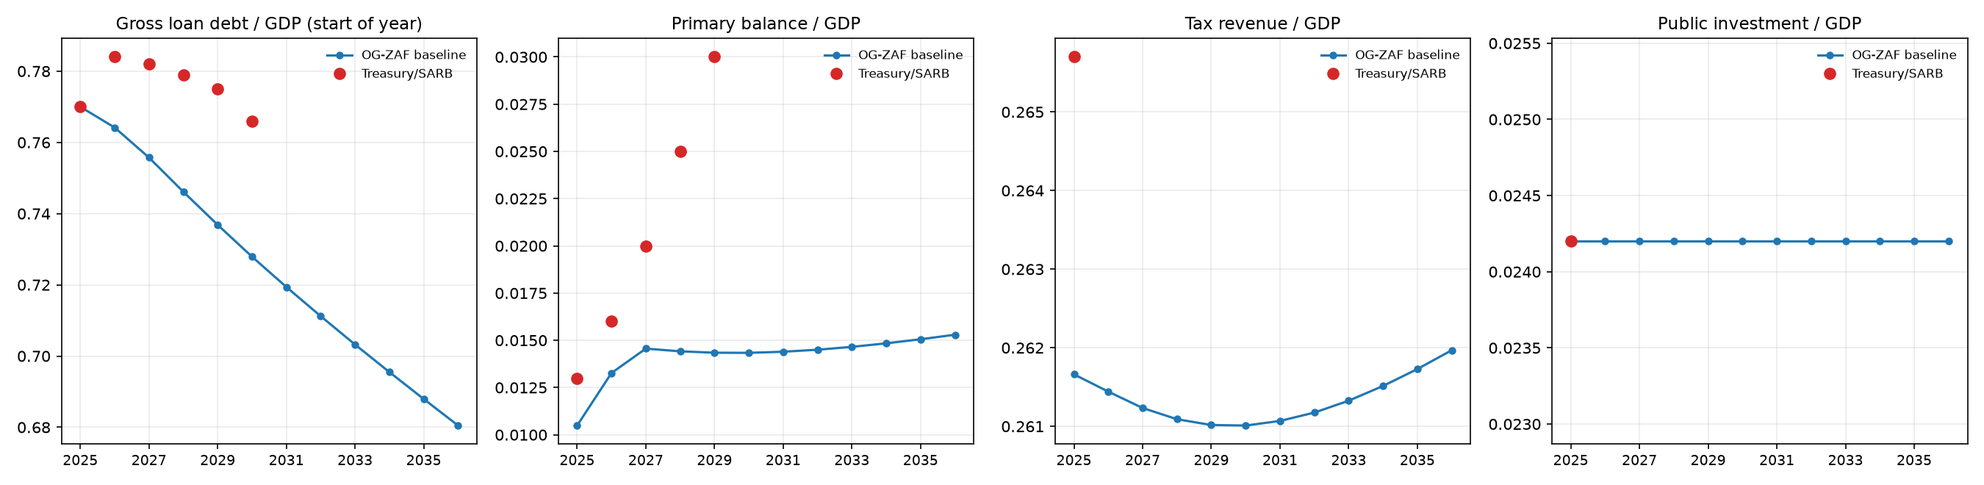
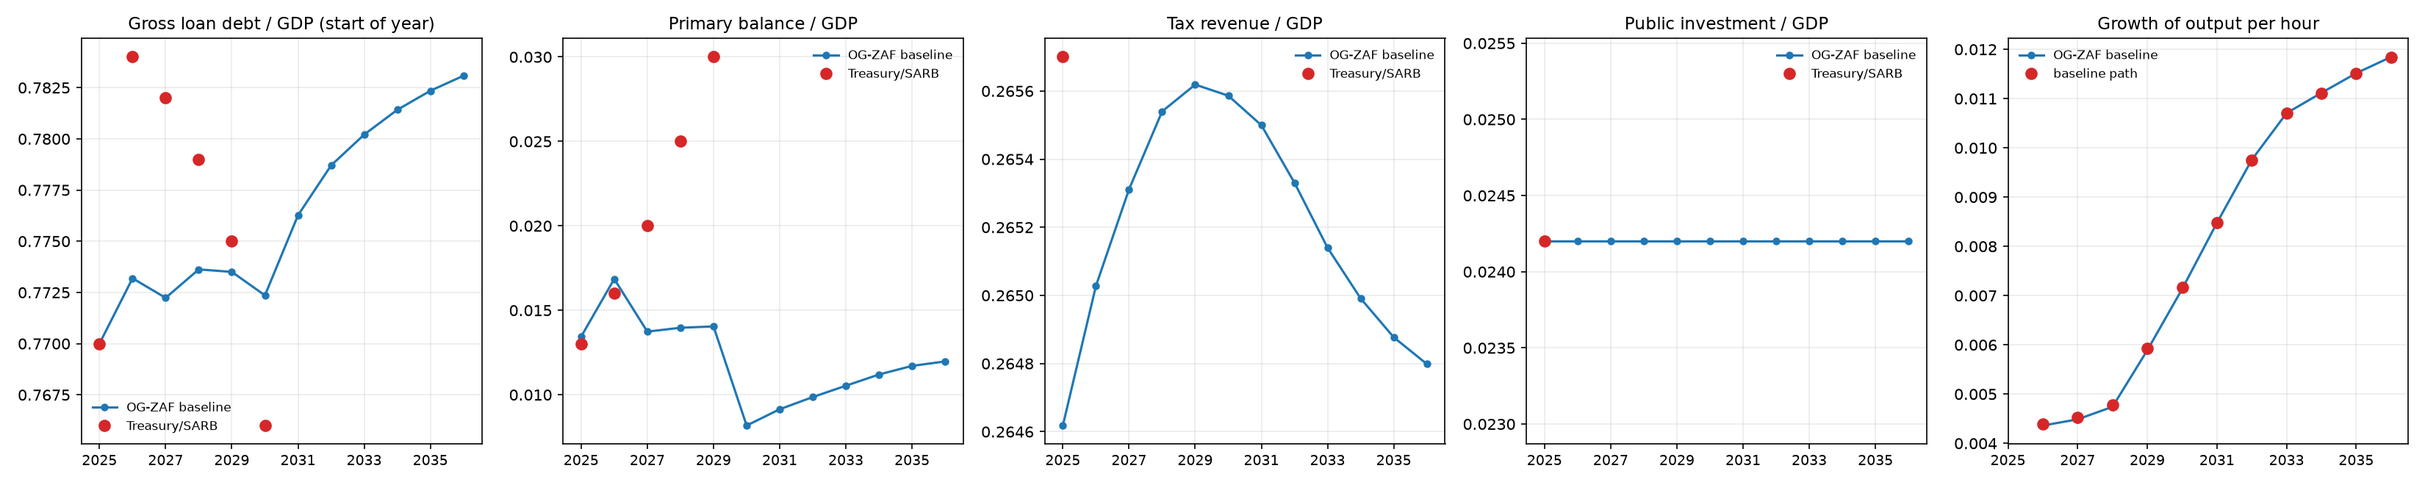
Document the productivity path, unemployment, indexed income tax brackets, initial wealth and the first-year validation

diff --git a/ogzaf/macro_params.py b/ogzaf/macro_params.py
@@ -250,13 +250,11 @@ def get_macro_params(
     # initialize a dictionary of parameters
     macro_parameters = {}
 
-    # NOTE: g_y_annual is no longer pulled from the World Bank. It is now a
-    # curated, forward-looking long-run productivity growth (0.014), chosen so
-    # the model's balanced-growth GDP growth (g_y + g_n) matches South Africa's
-    # ~1.8% medium-term assumption, which is consistent with the
-    # debt-stabilisation target — NOT the stagnant realized per-capita series
-    # the WB pull returns. Likewise the debt block (initial_debt_ratio,
-    # initial_foreign_debt_ratio, zeta_D) is not pulled: the World Bank QPSD
+    # NOTE: g_y_annual is no longer pulled from the World Bank. It is a
+    # curated long-run productivity growth (0.014, PWT GDP per person engaged
+    # 1994-2019); the stagnant recent years enter through the Z path in
+    # ogzaf/productivity.py, not through g_y. Likewise the debt block
+    # (initial_debt_ratio, initial_foreign_debt_ratio, zeta_D) is not pulled: the World Bank QPSD
     # measures a wider (general-government) perimeter than the National
     # Treasury national-government figure the model tracks. Both live in the
     # packaged ogzaf_default_parameters.json; see

diff --git a/docs/book/content/calibration/macro.md b/docs/book/content/calibration/macro.md
@@ -5,9 +5,9 @@
 
 As the default rate of labour-augmenting technological change, $g_y$, we use 1.4% per year (`g_y_annual = 0.014`), South Africa's measured long-run productivity growth. In PWT 11.0, real GDP per person engaged (`rgdpna`/`emp`) grew 1.44% a year over 1994–2019 and over 2000–2019, both windows ending before the Covid shock. Hours per worker are available only from 2008; they fell about 0.3% a year over 2008–2019, so growth per hour, the measure the model needs, is if anything a little higher. The interest-growth differential is consistent with the Treasury's: with the steady-state real rate on debt of 3.7% and steady-state growth of $g_y + g_n \approx 1.4\%$ (long-run population growth is about zero, see the demographics chapter), $r_{gov} - g \approx 2.3$ percentage points, against about 2.1 points in the Treasury's medium-term numbers (a 7.1% nominal effective rate, a 3% inflation target and 2.0% real growth; [MTBPS 2026](https://www.treasury.gov.za/MediumTermBudget/Medium%20Term%20Budget%20Policy%20Statement%20Full%20document.pdf), Tables 1.1 and 3.5).
 
-Near-term growth in the model is higher than the forecasts, for a reason $g_y$ cannot fix. The model's adult population grows about 1.4% a year in the first decade (UN WPP 2024) and every adult supplies labour, so effective labour grows about 2.2% a year and GDP about 3.3%. South Africa's employment grew 1.2% a year over 1994–2019 (PWT) and unemployment is a third of the labour force; the Treasury forecasts 1.2–2.0% growth for 2026–2029. OG-Core has no unemployment, so the model turns the youth bulge into output that South Africa does not produce. See the fiscal path below for what this does to debt.
+South Africa is well below that trend today: real GDP per person engaged grew 0.25% a year over 2008–2019 and TFP fell 1.0% a year (PWT 11.0). The baseline holds productivity below trend at first and lets the gap close over the transition through a path for total factor productivity. The path is the average of our own rule and the OECD's long-term baseline, not a forecaster's reform scenario; the firms chapter sets it out. Output per hour grows 0.4% a year in 2026, about 1.1% a year in the 2030s and 1.44% in the long run. Labour input grows with the working-age population at today's employment rates by age (the earnings chapter explains how unemployment enters), so GDP grows 1.6% in 2026 and about 2.1% a year in the 2030s.
 
-We deliberately do **not** use South Africa's *realized* productivity growth, which has been dismal — near zero, even negative, over the 2010s state-capture/load-shedding decade, when potential growth collapsed from ~4% to near zero and TFP subtracted about 1.3 percentage points from growth. The steady state is a long-run object, and pairing that stagnation with a *stabilising* debt target would be internally inconsistent: it is precisely the IMF's more pessimistic scenario, in which debt does **not** stabilise but drifts toward 84% of GDP. The ~1.8% recovery is reform-contingent (Operation Vulindlela — energy and logistics), and we adopt it as the sustainable long-run assumption that is consistent with the debt anchor. Because $g_y$ is now a curated forward-looking assumption rather than a realized-data series, it is held in the packaged parameters and no longer refreshed from the live World Bank pull.
+$g_y$ itself is a long-run object and stays at 1.4%. Because it is curated, it is held in the packaged parameters and no longer refreshed from the live World Bank pull.
 
 ## Open Economy Parameters
 
@@ -112,7 +112,9 @@ Government investment is set with $\alpha_I = 0.0242$, general government gross 
 
 ### Government expenditures
 
-Government consumption is set with $\alpha_G$. In the steady state OG-Core solves for it from the budget identity below, and it lands at 18.5% of GDP, against general government final consumption of 18.9% in 2025 (SARB QB S-116). Along the transition $\alpha_G$ is a short path, `[0.1896, 0.1866, 0.1851]`, so the primary balance follows the Treasury's consolidated plan in the first two years (+1.3% of GDP in 2025/26, +1.6% in 2026/27) and then holds at the debt-stabilising level. From 2027/28 the Treasury plans surpluses (2.0–3.0%) above the stabilising one, to bring debt down; the model does not chase them, because the steady state holds debt at the target rather than below it.
+Government consumption is set with $\alpha_G$. In the steady state OG-Core solves for it from the budget identity below, and it lands at 18.9% of GDP, the same as general government final consumption in 2025 (SARB QB S-116). Along the transition $\alpha_G$ is a short path, `[0.1896, 0.1866, 0.1900]`. The first two values make the primary balance follow the Treasury's consolidated plan (+1.3% of GDP in 2025/26, +1.6% in 2026/27). The third holds it at about 1.4% in 2027–2029, close to the level that keeps debt stable at the baseline's growth. From 2027/28 the Treasury plans larger surpluses (2.0–3.0%) to bring debt down; the baseline does not assume them.
+
+From 2030, after the MTBPS 2026 window, OG-Core's budget rule sets government consumption (`tG1 = 5`, `rho_G = 0.1`): each year it closes a tenth of the gap between debt and the 76.5% target. Spending steps up 0.6% of GDP in 2030, because the faster growth of the 2030s lowers the surplus that holds debt steady.
 
 ## Fiscal consistency
 
@@ -122,49 +124,65 @@ The spending shares, the revenue the tax system raises and the debt target `debt
 \alpha_G + \alpha_T + \alpha_I = \text{revenue}/Y - pb^\*
 ```
 
-With $r_{gov} = 3.7\%$ and $g = 1.38\%$, $pb^\* = 1.75\%$ of GDP. Revenue is 26.4% of GDP, so primary spending is 24.7%: 18.5% government consumption, 3.7% transfers and 2.4% public investment. The Treasury's consolidated primary surplus is 1.3% in 2025/26 and is planned to rise above 1.75% from 2027/28, so the steady state's fiscal stance is one the Treasury plans to pass within three years.
+With $r_{gov} = 3.7\%$ and $g = 1.38\%$, $pb^\* = 1.75\%$ of GDP. Steady-state revenue is 26.8% of GDP, so primary spending is 25.0%: 18.9% government consumption, 3.7% transfers and 2.4% public investment. The Treasury's consolidated primary surplus is 1.3% in 2025/26 and is planned to rise above 1.75% from 2027/28, so the steady state's fiscal stance is one the Treasury plans to pass within three years.
 
 South Africa's debt is not a solvency or default question for this purpose — it is ~90% rand-denominated, long-maturity and domestically financed, rated sub-investment-grade-but-*stabilising* (BB/Ba2, all three agencies on positive outlook in 2025–26), and the IMF assesses debt-distress risk as moderate with no restructuring risk. The stable-debt steady state is therefore a modelling device for the sustainable long run, consistent with the National Treasury's own plan, which has debt at 76.6% of GDP in 2029/30, not a claim that default is off the table or that current policy already stabilises debt (the IMF's more cautious baseline has debt still rising absent a sustained ~3% primary surplus).
 
+### First-year validation
+
+The tax settings and initial household wealth are tuned to 2025, the year South Africa's data measure, in the baseline transition solved by `examples/run_og_zaf.py` (ogcore 0.22.0, offline). `examples/validate_fiscal_path.py` prints this table; targets and sources are in `ogzaf/targets.py`.
+
+| Moment, 2025 | Model | Data | Source |
+|---|---|---|---|
+| Personal income tax / GDP | 10.16% | 10.15% | MTBPS 2026, 2025/26 |
+| Company tax + dividends tax / GDP | 5.02% | 5.02% | MTBPS 2026 |
+| Consumption taxes, net of SACU / GDP | 8.92% | 8.92% | MTBPS 2026, BR 2026 |
+| Payroll levies (SDL + UIF) / GDP | 0.67% | 0.67% | MTBPS 2026, UIF |
+| Property taxes / GDP | 1.61% | 1.61% | Stats SA P9114, BR 2026 |
+| Estate duty + donations tax / GDP | 0.08% | 0.08% | BR 2026 |
+| Private capital / GDP | 2.80 | 2.80 | PWT 11.0, SARB |
+| Real rate on government debt | 3.69% | 3.7% | MTBPS 2026, deflated |
+| Primary balance / GDP | 1.34% | 1.3% | MTBPS 2026 |
+
+Household wealth starts at 2.79 times GDP (`initial_wealth_ratio`), the level that makes private capital 2.80 times GDP. The SARB household balance sheet shows 2.97 (QB S-142), but that also counts foreign assets held through pension funds and unit trusts, which the model's households cannot hold.
+
 ### Steady-state validation
 
-The steady state of the packaged parameters, solved by `examples/run_og_zaf.py` (ogcore 0.22.0, offline), against South African data. Targets and sources are in `ogzaf/targets.py`; `examples/tune_ss.py` prints the same table.
+The long run is an outcome, not a target. It uses the same settings, with productivity back on trend.
 
-| Moment | Model | Data | Source |
+| Moment | Model | Data (today) | Source |
 |---|---|---|---|
-| Personal income tax / GDP | 10.13% | 10.15% | MTBPS 2026, 2025/26 |
-| Company tax + dividends tax / GDP | 5.02% | 5.02% | MTBPS 2026 |
-| Consumption taxes, net of SACU / GDP | 8.91% | 8.92% | MTBPS 2026, BR 2026 |
+| Personal income tax / GDP | 10.30% | 10.15% | MTBPS 2026, 2025/26 |
+| Company tax + dividends tax / GDP | 5.03% | 5.02% | MTBPS 2026 |
+| Consumption taxes, net of SACU / GDP | 9.19% | 8.92% | MTBPS 2026, BR 2026 |
 | Payroll levies (SDL + UIF) / GDP | 0.67% | 0.67% | MTBPS 2026, UIF |
-| Property taxes / GDP | 1.60% | 1.61% | Stats SA P9114, BR 2026 |
-| Estate duty + donations tax / GDP | 0.08% | 0.08% | BR 2026 |
+| Property taxes / GDP | 1.51% | 1.61% | Stats SA P9114, BR 2026 |
+| Estate duty + donations tax / GDP | 0.10% | 0.08% | BR 2026 |
 | Real rate on government debt | 3.71% | 3.7% | MTBPS 2026, deflated |
 | Debt / GDP | 0.765 | 0.765 (2029/30 path) | MTBPS 2026 |
 | Foreign share of debt | 0.25 | 0.25 | BR 2026 |
-| Government consumption / GDP | 18.5% | 18.9% | SARB QB 2025 |
+| Government consumption / GDP | 18.9% | 18.9% | SARB QB 2025 |
 | Transfers / GDP | 3.7% | 3.6% | BR 2026 |
 | Public investment / GDP | 2.42% | 2.42% | SARB QB 2025 |
 | Private capital / GDP | 2.79 | 2.80 | PWT 11.0, SARB |
 | Real return on capital | 11.0% | 12.0% | PWT 11.0 `irr` |
 | Foreign-owned share of capital | 21.2% | 8–20.5% (gross) | SARB IIP |
 | Household wealth / GDP | 2.77 | 2.97 | SARB QB S-142 |
-| Private consumption / GDP (purchaser prices) | 67.2% | 65.8% | SARB QB 2025 |
+| Private consumption / GDP (purchaser prices) | 67.1% | 65.8% | SARB QB 2025 |
 | Total investment / GDP | 17.6% | 13.9% (2025); 18% (2010–2019) | SARB QB; PWT 11.0 `csh_i` |
 
-Three rows are not targeted. Investment is above 2025's depressed level and close to the 2010s average. The trade surplus is 5.7% of GDP against 1.9% in 2025: in the model it pays the return on foreign-owned capital, while South Africa also earns income on foreign assets of 135% of GDP, which OG-Core's single foreign-capital stock cannot hold. Household wealth is 0.2 times GDP below the SARB balance sheet.
+Consumption taxes are higher in the long run because consumption is a larger share of output: 57.9% at producer prices against 56.2% in 2025. Investment is above 2025's depressed level and close to the 2010s average. The trade surplus is 5.7% of GDP against 1.9% in 2025: in the model it pays the return on foreign-owned capital, while South Africa also earns income on foreign assets of 135% of GDP, which OG-Core's single foreign-capital stock cannot hold.
 
 ### Fiscal path validation
 
-`examples/validate_fiscal_path.py` scores the first years of the baseline transition against the Treasury's numbers.
+`examples/validate_fiscal_path.py` scores the first years of the baseline transition against the Treasury's numbers and against the productivity path.
 
 ```{figure} ./images/fiscal_path.png
 ---
 height: 300px
 name: FigFiscalPath
 ---
-Baseline transition against gross loan debt (MTBPS 2026 Tables 1.3 and 3.8), the consolidated primary balance (MTBPS 2026 Tables 1.2, 3.6 and 4.1), tax revenue (MTBPS 2026 Table 3.1, bridged to the model's concept) and public investment (SARB QB S-127).
+Baseline transition against gross loan debt (MTBPS 2026 Tables 1.3 and 3.8), the consolidated primary balance (MTBPS 2026 Tables 1.2, 3.6 and 4.1), tax revenue (MTBPS 2026 Table 3.1, bridged to the model's concept), public investment (SARB QB S-127) and the baseline path for output per hour (`ogzaf/productivity.py`).
 ```
 
-The model starts from the measured debt ratio, 77.0% of GDP, and its primary surplus follows the Treasury's in the first two years (1.05% and 1.33% against 1.3% and 1.6%). Debt then falls, to 73.7% in 2029 against the Treasury's 77.5%, and to a low of 61% around 2045 before it returns to the 76.5% target. The cause is growth: model GDP grows 3.3% a year in 2026–2029 against the Treasury's 1.2–2.0%, because the model employs the whole growing adult population (see Economic Assumptions above). With growth 1.5 points too high, the debt ratio falls about 1.1 points a year faster. Revenue (26.2% of GDP against 26.6% in 2025/26) and public investment match. Consumption is smooth from the first year; there is no start-up jump.
-
-The model's first-year household wealth is 2.61 times GDP, set by the steady-state wealth profile and the 2025 population. The data are 2.93 (capital side: private capital net of foreign ownership plus domestically held debt) and 2.97 (SARB household balance sheet). ogcore 0.22.0 can target this level (`initial_wealth_ratio`); it is not set in this calibration.
+The model starts from the measured debt ratio, 77.0% of GDP, and its primary surplus follows the Treasury's in the first two years (1.34% and 1.69% against 1.3% and 1.6%). Debt then holds between 77.2% and 77.4% to 2029, against the Treasury's 77.5–78.4%, and drifts up to 78.3% by 2036 and 78.5% at its peak before it settles at the 76.5% target. The baseline does not fall as fast as the Treasury's plan after 2027/28, because it does not assume the planned surpluses of 2.0–3.0%. Revenue is 26.5% of GDP against 26.6% in 2025/26, and public investment matches. Output per hour follows its baseline path in every year, and GDP grows 1.6% in 2026, 1.9% in 2029 and about 2.1% a year in the 2030s. Consumption is smooth from the first year.

diff --git a/docs/book/content/calibration/taxes.md b/docs/book/content/calibration/taxes.md
@@ -16,11 +16,11 @@ The government sector influences households through two terms in the household b
 
 The total tax function, $T_{s,t}$, is a function of personal income taxes, payroll taxes, taxes on bequests and wealth taxes. Each is set as an effective rate: what South Africa collects divided by the base the model taxes.
 
-**Property taxes.** Municipal property rates raised R101.5bn in the year to June 2025, 1.36% of GDP ([Stats SA P9114](https://www.statssa.gov.za/publications/P9114/P91142025.pdf)); transfer duty and the securities transfer tax add 0.25% (Budget Review 2026 annexure). OG-Core's wealth tax is the nearest instrument. We set `h_wealth = 1`, `m_wealth = 1`, so the rate is almost flat above small holdings and lower at the bottom, as the rates exemption on low-value homes makes it, and tune `p_wealth = 0.0078` so the tax collects 1.61% of GDP.
+**Property taxes.** Municipal property rates raised R101.5bn in the year to June 2025, 1.36% of GDP ([Stats SA P9114](https://www.statssa.gov.za/publications/P9114/P91142025.pdf)); transfer duty and the securities transfer tax add 0.25% (Budget Review 2026 annexure). OG-Core's wealth tax is the nearest instrument. We set `h_wealth = 1`, `m_wealth = 1`, so the rate is almost flat above small holdings and lower at the bottom, as the rates exemption on low-value homes makes it, and tune `p_wealth = 0.0073` so the tax collects 1.61% of GDP in 2025.
 
-**Estate duty.** Estate duty and donations tax raised R5.9bn, 0.08% of GDP (Budget Review 2026 annexure). The model's bequests are much larger than taxable estates, so the effective rate is small: `tau_bq = 0.0078` collects 0.08% of GDP. It is not the 20% statutory estate duty rate, which applied to the model's bequests would collect about 2% of GDP.
+**Estate duty.** Estate duty and donations tax raised R5.9bn, 0.08% of GDP (Budget Review 2026 annexure). The model's bequests are much larger than taxable estates, so the effective rate is small: `tau_bq = 0.0100` collects 0.08% of GDP in 2025. It is not the 20% statutory estate duty rate, which applied to the model's bequests would collect about 2% of GDP.
 
-South Africa has a genuinely progressive personal income tax — statutory marginal rates rise from 18% to 45%, with a tax threshold (R95,750 in 2025/26) plus a primary rebate that exempt low earners entirely ([SARS, Rates of Tax for Individuals 2025/26](https://www.sars.gov.za/tax-rates/income-tax/rates-of-tax-for-individuals/)). Modelling it as a single flat rate applied to every household — the previous calibration used a 22% effective / 31% labour-marginal / 25% capital-marginal *linear* tax — misstates incidence and, more importantly, imposes a spurious labour-supply and saving wedge on the low earners who in reality fall below the tax threshold and remit no income tax (about a third of South African employment is informal, and PIT reaches only the formal, above-threshold minority).
+South Africa has a genuinely progressive personal income tax — statutory marginal rates rise from 18% to 45%, with a tax threshold (R95,750 in 2025/26) plus a primary rebate that exempt low earners entirely ([SARS, Rates of Tax for Individuals 2025/26](https://www.sars.gov.za/tax-rates/income-tax/rates-of-tax-for-individuals/)). Modelling it as a single flat rate applied to every household — the previous calibration used a 22% effective / 31% labour-marginal / 25% capital-marginal *linear* tax — misstates incidence and, more importantly, imposes a spurious labour-supply and saving wedge on the low earners who in reality fall below the tax threshold and remit no income tax (34% of South African employment is informal, ILO 2023, and PIT reaches only the formal, above-threshold minority).
 
 We therefore use OG-Core's Gouveia-Strauss (GS) progressive tax function (`tax_func_type = "GS"`), under which the effective rate on total income $y$ rises smoothly from zero at low income toward an asymptote $\phi_0$ at high income:
 
@@ -29,9 +29,11 @@ We therefore use OG-Core's Gouveia-Strauss (GS) progressive tax function (`tax_f
   \tau^{etr}(y) = \phi_0\,\frac{y - \left(y^{-\phi_1} + \phi_2\right)^{-1/\phi_1}}{y}
 ```
 
-with the marginal rate rising to the same asymptote $\phi_0$. We anchor $\phi_0 = 0.464$ to South Africa's statutory top marginal rate (45%, lifted slightly so PIT hits its revenue target), fit the curvature parameter $\phi_1 = 1.393$ to the SARS 2025/26 effective-rate schedule (the bracket schedule net of the primary rebate), and tune the scale parameter $\phi_2 = 1.656\times10^{-8}$ so that personal income tax collects **10.15% of GDP** (R790.6bn in 2025/26, [MTBPS 2026](https://www.treasury.gov.za/MediumTermBudget/Medium%20Term%20Budget%20Policy%20Statement%20Full%20document.pdf) Table 3.1) in the model steady state — collected entirely from the above-threshold half of earners (see below) — matching South Africa's actual PIT take ([National Treasury Budget Review 2026](https://www.treasury.gov.za/documents/National%20Budget/2026/review/Chapter%204.pdf) / SARS). The resulting effective rate rises from ~0 near the tax threshold to about 21% at R500,000 and 38% at R2,000,000 — tracking the SARS schedule net of rebates (20% and 36% at those incomes) and sitting slightly above it at mid-to-high incomes, the price of matching aggregate collections that in reality include capital-income taxes and fiscal drag the model books through this same function — with the marginal rate ramping toward the 45% statutory top.
+with the marginal rate rising to the same asymptote $\phi_0$. We anchor $\phi_0 = 0.464$ to South Africa's statutory top marginal rate (45%, lifted slightly so PIT hits its revenue target), fit the curvature parameter $\phi_1 = 1.393$ to the SARS 2025/26 effective-rate schedule (the bracket schedule net of the primary rebate), and tune the scale parameter $\phi_2$ so that personal income tax collects **10.15% of GDP** (R790.6bn in 2025/26, [MTBPS 2026](https://www.treasury.gov.za/MediumTermBudget/Medium%20Term%20Budget%20Policy%20Statement%20Full%20document.pdf) Table 3.1) in 2025, the first year of the transition — collected entirely from the above-threshold half of earners (see below) — matching South Africa's actual PIT take ([National Treasury Budget Review 2026](https://www.treasury.gov.za/documents/National%20Budget/2026/review/Chapter%204.pdf) / SARS). In today's rand, the resulting effective rate rises from ~0 near the tax threshold to about 22% at R500,000 and 38% at R2,000,000 — tracking the SARS schedule net of rebates (20% and 36% at those incomes) and sitting slightly above it at mid-to-high incomes, the price of matching aggregate collections that in reality include capital-income taxes and fiscal drag the model books through this same function — with the marginal rate ramping toward the 45% statutory top.
 
 We chose GS over the smoother Heathcote-Storesletten-Violante (HSV) form specifically because **GS floors the effective rate at zero**: below South Africa's tax threshold, earners pay exactly nothing. This is both faithful to the statutory reality and numerically essential — HSV's mildly *negative* effective rate at the bottom (a small implicit subsidy) drained early-transition revenue and, interacting with the debt-elastic sovereign premium, made the baseline transition diverge (documented in {ref}`Chap_MacroCalib`).
+
+**Brackets move with average income.** OG-Core converts model income to rand with one factor fixed in the steady state, so its tax schedule grows with the long-run trend. In normal times that is the same as growing with incomes. In this calibration incomes run below trend for decades (the productivity path in the firms chapter), and as the population ages, model income per person falls to 0.80 of its 2025 level, measured against the trend. With a fixed schedule, brackets would outrun incomes and the PIT share would fall from 10.15% to 8.8% of GDP for no South African reason. We therefore give $\phi_2$ a path, $\phi_{2,t} = \phi_{2,2025}\,\lambda_t^{-\phi_1}$, where $\lambda_t$ is model average income relative to 2025. A household at the average then stays at the same point on the schedule, and PIT holds at 10.2–10.3% of GDP along the path and in the steady state. $\phi_{2,2025} = 1.256\times10^{-8}$ in model income units; $\phi_2$ rises to $1.716\times10^{-8}$ by 2145 and stays there. Expressed in today's rand, the 2025 schedule is the one described above.
 
 We use a progressive function rather than the graded tax-*noncompliance* device that some sibling models use for informality (e.g. OG-ETH, where ~85% of employment is informal and PIT is a thin, near-flat tax). In South Africa low earners pay ~0 personal income tax **by statute** (the threshold and rebate), not through noncompliance, and the PIT is both progressive and a large, well-collected share of GDP — so a progressive function is the faithful representation and avoids double-counting the below-threshold population as evaders.
 
@@ -39,11 +41,11 @@ We use a progressive function rather than the graded tax-*noncompliance* device 
 
 ## Corporate income taxes
 
-`OG-ZAF` uses the top statutory rate of 27% for the corporate income tax rate. Because informal and exempt firms mean corporate collections fall short of the statutory rate applied to the whole capital stock, the effective corporate tax is scaled by `adjustment_factor_for_cit_receipts` (together with `c_corp_share_of_assets`). We set this factor to 0.738, so that corporate income tax collects **5.02% of GDP** in the steady state: CIT of R345.4bn plus dividends tax of R45.9bn in 2025/26 (MTBPS 2026, Table 3.1). Dividends tax is a second layer of tax on distributed company profits; the corporate tax is the model's only instrument that falls on that base.
+`OG-ZAF` uses the top statutory rate of 27% for the corporate income tax rate. Because informal and exempt firms mean corporate collections fall short of the statutory rate applied to the whole capital stock, the effective corporate tax is scaled by `adjustment_factor_for_cit_receipts` (together with `c_corp_share_of_assets`). We set this factor to 0.739, so that corporate income tax collects **5.02% of GDP** in 2025: CIT of R345.4bn plus dividends tax of R45.9bn in 2025/26 (MTBPS 2026, Table 3.1). Dividends tax is a second layer of tax on distributed company profits; the corporate tax is the model's only instrument that falls on that base.
 
 ## Consumption / indirect taxes
 
-South Africa's statutory VAT rate is 15%, but OG-Core's `tau_c` is a tax on the consumption good and so captures **all** taxes on consumption: VAT (6.43% of GDP in 2025/26), the general fuel levy (1.22%), excise (0.93%), customs (1.05%) and other indirect taxes (0.24%), 9.87% of GDP in total (MTBPS 2026 Table 3.1; Budget Review 2026 Table 4.1). We net out the 0.95% of GDP paid to the other Southern African Customs Union members, which the government collects but does not keep. The effective `tau_c = 0.153` collects the remaining 8.92% of GDP in the steady state.
+South Africa's statutory VAT rate is 15%, but OG-Core's `tau_c` is a tax on the consumption good and so captures **all** taxes on consumption: VAT (6.43% of GDP in 2025/26), the general fuel levy (1.22%), excise (0.93%), customs (1.05%) and other indirect taxes (0.24%), 9.87% of GDP in total (MTBPS 2026 Table 3.1; Budget Review 2026 Table 4.1). We net out the 0.95% of GDP paid to the other Southern African Customs Union members, which the government collects but does not keep. The effective `tau_c = 0.159` collects the remaining 8.92% of GDP in 2025.
 
 ## Payroll taxes
 

diff --git a/CHANGELOG.md b/CHANGELOG.md
@@ -10,19 +10,21 @@ The format is based on [Keep a Changelog](https://keepachangelog.com/en/1.0.0/),
 
 - Requires ogcore >= 0.22.0. `tau_payroll` and `alpha_db` are T x J arrays; the transition uses Anderson acceleration with `nu = 0.2`.
 - Recalibrated the single-industry baseline to South African data. Each value is an effective rate or a measured ratio; sources are in the calibration chapters and `ogzaf/targets.py`.
-  - Taxes: progressive Gouveia-Strauss income tax (`tax_func_type` linear -> GS, `etr_params` 0.22 -> [0.464, 1.39288, 1.656e-8]) collecting 10.15% of GDP; bottom two income groups outside the income tax net (`income_tax_filer`). `tau_c` 0.15 -> 0.153 (all consumption taxes net of SACU payments, 8.92% of GDP). `adjustment_factor_for_cit_receipts` 0.3 -> 0.738 (CIT plus dividends tax, 5.02%). `tau_payroll` 0 -> 0.0127 (SDL + UIF, 0.67%). Property taxes `p_wealth` 0 -> 0.0078 with `h_wealth` 0.1 -> 1 (municipal rates, transfer duty and securities transfer tax, 1.61%). `tau_bq` 0.2 -> 0.0078 (estate duty and donations tax, 0.08%).
+  - Taxes: progressive Gouveia-Strauss income tax (`tax_func_type` linear -> GS, `etr_params` 0.22 -> [0.464, 1.39288, 1.2558e-8] in 2025) collecting 10.15% of GDP in 2025, with `phi2` indexed to model average income so brackets move with incomes (rising to 1.716e-8); bottom two income groups outside the income tax net (`income_tax_filer`). `tau_c` 0.15 -> 0.1586 (all consumption taxes net of SACU payments, 8.92% of GDP). `adjustment_factor_for_cit_receipts` 0.3 -> 0.7385 (CIT plus dividends tax, 5.02%). `tau_payroll` 0 -> 0.012681 (SDL + UIF, 0.67%). Property taxes `p_wealth` 0 -> 0.0073 with `h_wealth` 0.1 -> 1 (municipal rates, transfer duty and securities transfer tax, 1.61%). `tau_bq` 0.2 -> 0.00995 (estate duty and donations tax, 0.08%). Every tax rate is tuned to 2025 collections.
   - Production and households: `delta_annual` 0.05 -> 0.0405 (private consumption of fixed capital over private capital). `beta_annual` 0.96 -> 0.8706, set so private K/Y = 2.80 (PWT 11.0 less government capital); the implied real return of 11.0% is close to PWT's 12.0%.
-  - Growth: `g_y_annual` 0.0059 -> 0.014, PWT output per worker growth 1994-2019 and 2000-2019.
+  - Growth: `g_y_annual` 0.0059 -> 0.014, PWT output per worker growth 1994-2019 and 2000-2019. `Z` 1 -> a path from 1.083 in 2025 to 1 in the steady state (`ogzaf/productivity.py`): output per hour grows 0.4% a year in 2026 and about 1.1% in the 2030s, the average of a rule built on South Africa's recent growth and cross-country persistence (Pritchett and Summers 2014) and the OECD long-term baseline capped at 1.44%.
   - Open economy: `world_int_rate_annual` 0.04 -> 0.063 (4% plus the Treasury's 2.26-point sovereign premium). `zeta_K` 0.9 -> 0.16 (Chinn-Ito); the steady state's foreign-owned capital share, 21%, matches the gross IIP measure. `zeta_D` and `initial_foreign_debt_ratio` 0.162 -> 0.25 (non-resident share of domestic bonds).
   - Debt: `initial_debt_ratio` 0.842 -> 0.770 (gross loan debt at the end of 2024/25, MTBPS 2026). `debt_ratio_ss` 1.2 -> 0.765 (Treasury path, 2029/30). `r_gov_shift` -0.0338 -> -0.0334 so the real rate on debt is the Treasury's effective 3.7%, with a debt-elastic premium centred on the target (`r_gov_DY` 0 -> -0.0612, `r_gov_DY2` 0 -> 0.04).
-  - Spending: `alpha_I` 0.0003 -> 0.0242 (general government investment). `alpha_G` 0.233 -> [0.1896, 0.1866, 0.1851]: the steady-state value from the budget identity, with the first two years on the Treasury's primary balance path.
+  - Spending: `alpha_I` 0.0003 -> 0.0242 (general government investment). `alpha_G` 0.233 -> [0.1896, 0.1866, 0.1900]: the first two years on the Treasury's primary balance path, then the debt-stabilising level. `tG1` 20 -> 5: the budget rule takes over in 2030, after the MTBPS window.
+  - Initial wealth: `initial_wealth_ratio` unset -> 2.7907, so private capital is 2.80 times GDP in 2025.
 - Demographics use UN data through 2098 (`DEMOG_FINAL_DATA_YEAR`), so long-run population growth `g_n_ss` is 0.42% -> -0.03%, and fertility and mortality differ by lifetime income group with South Africa's measured gradients.
 - `get_macro_params` refreshes only `gamma` and `alpha_T` on a live update; the curated values above are not overwritten.
 
 ### Added
 
 - `ogzaf/targets.py`, `examples/tune_ss.py`: the steady-state dashboard and tuning script.
-- `examples/validate_fiscal_path.py`: scores the baseline transition against the Treasury's debt, primary balance, revenue and public investment.
+- `examples/validate_fiscal_path.py`: scores the baseline transition against the Treasury's debt, primary balance, revenue and public investment, the 2025 revenue targets, and the productivity path.
+- `ogzaf/productivity.py`: the baseline productivity path, its sources and the function that builds `Z`.
 - `ogzaf/warm_start.py`, `examples/save_warm_start.py` and a packaged seed: the steady state starts from the last calibrated solution.
 - `python -m ogzaf.update_demographics`: regenerates only the demographic parameters.
 

diff --git a/docs/CALIBRATION_PLAN.md b/docs/CALIBRATION_PLAN.md
@@ -12,10 +12,12 @@ or D).
 
 1. **Steady state** (`examples/tune_ss.py`, targets in `ogzaf/targets.py`).
    Fiscal rows first, then external, production, households.
-2. **Near-term fiscal path** (baseline transition, first 10-15 years): debt,
-   primary balance, revenue and public investment against actuals for
-   2024/25-2025/26 and the National Treasury's medium-term path to 2028/29.
-   Needs a transition run.
+2. **First year and near-term path** (baseline transition,
+   `examples/validate_fiscal_path.py`): 2025 revenue by instrument and private
+   `K/Y` (the tax dials and initial wealth are tuned here, because 2025 is
+   what is measured); debt, primary balance, revenue and public investment
+   against actuals and the National Treasury's medium-term path; growth of
+   output per hour against the baseline productivity path.
 
 ## Moment x lever table
 
@@ -30,8 +32,8 @@ or D).
 | payroll/Y | `tau_payroll·w·e·n` | `tau_payroll` S (0.0127, SDL + UIF) | PIT |
 | CIT/Y | `tau_b·(Y - wL - delta_tau·K)`-type base | `cit_rate` S (27%), `adjustment_factor_for_cit_receipts` T, `c_corp_share_of_assets` D (0.7, absorbed by the adjustment factor) | `K/Y` |
 | consumption tax/Y | `tau_c·C` | `tau_c` T (all indirect taxes) | `C/Y` |
-| property tax/Y | `p_wealth·B` (flat, `h = 1`, `m` small) | `p_wealth` T (0.0078, property taxes 1.61% of GDP) | saving, `K/Y` |
-| bequest tax/Y | `tau_bq·BQ` | `tau_bq` T (0.0078, estate duty 0.08% of GDP) | `chi_b` |
+| property tax/Y | `p_wealth·B` (flat, `h = 1`, `m` small) | `p_wealth` T (0.0073, property taxes 1.61% of GDP in 2025) | saving, `K/Y` |
+| bequest tax/Y | `tau_bq·BQ` | `tau_bq` T (0.0100, estate duty 0.08% of GDP in 2025) | `chi_b` |
 | pensions/Y | US-style formula with PIA rates | D: all PIA rates 0. South Africa has no contributory state pension; the old-age grant is a cash transfer in `alpha_T`; GEPF is a funded employer scheme (private saving) | `G/Y`, saving |
 | `TR/Y` | `alpha_T·Y` | `alpha_T` S (IMF GFS social benefits; check cash-only) | `G/Y`, `C/Y` |
 | `I_g/Y` | `alpha_I·Y` | `alpha_I` S | `G/Y`, `(I+I_g)/Y` |
@@ -40,8 +42,12 @@ or D).
 | `NX/Y` | residual of foreign flows | `zeta_K`, `zeta_D`, `world_int_rate`; in the SS compare only its sign with `K_f` | `C/Y` |
 | `wL/Y` | `1 - gamma - gamma_g` at `epsilon = 1` | not a free check at `epsilon = 1` | — |
 | `g_n_ss` | growth of frozen `final_data_year` rates | demographic window S (UN data to 2098) | `pb*`, `I/Y` |
-| earnings `e` | hand-coded WID x NTA (`income.get_e_orig`) | D: documented, not re-derived here | PIT, wealth |
-| `chi_n` | OG-USA profile | D: borrowed, uncalibrated (document) | hours |
+| earnings `e` | hand-coded WID x NTA (`income.get_e_orig`) | D: documented, not re-derived here. Carries unemployment: NTA labour income per person and WID shares include the jobless; 2005 employment rates by age are close to 2024's (ILO) | PIT, wealth |
+| `chi_n` | OG-USA profile | D: borrowed (document). Not used for unemployment, which would make joblessness a choice | hours |
+| output per hour, 2026-2050 | `Z_t` path, labour from demographics | `Z` T (`ogzaf/productivity.py`: average of our rule and the capped OECD EO117 baseline; `Z_ss = 1`) | GDP growth, debt path |
+| household wealth / GDP, 2025 | `initial_wealth_ratio·Y_0` | `initial_wealth_ratio` T (2.79, to private `K/Y` 2.80 in 2025) | first-year `r`, revenue |
+| PIT/Y along the path | GS `phi2_t = phi2_2025·lambda_t^-phi1` | brackets indexed to model average income (D, neutral indexation) | PIT/Y |
+| debt path after 2029/30 | budget rule from `tG1` | `tG1` D (5: after the MTBPS window), `rho_G` D (0.1), `alpha_G` S/T (Treasury primary balance 2025/26-2026/27, then stabilising) | `G/Y` |
 
 ## Tuning order
 
@@ -54,5 +60,8 @@ or D).
 5. `zeta_K` against gross `K_f/K`, or a written reason if the world-rate sign
    check fails.
 6. Re-tune 2 if 4 or 5 moved the bases.
-7. Transition: fiscal path panel, `alpha_G` glide to the Treasury path,
-   initial household wealth.
+7. Transition, jointly: the `Z` path to the baseline output per hour,
+   `initial_wealth_ratio` to private `K/Y` in 2025, the tax dials of step 2
+   to 2025 collections, and the bracket index to model average income.
+   Then re-check the steady state (`r_gov`, `K/Y`, `K_f/K`) and the fiscal
+   path panel.

diff --git a/docs/book/content/calibration/firms.md b/docs/book/content/calibration/firms.md
@@ -42,4 +42,21 @@ The capital measure matters. PWT's ratio at current national prices is lower, 2.
 
 ### Total factor productivity
 
-In the case of the single production sector, we can normalize $Z_{m,t}=1.0$.  In the case of multiple production sectors, we use {cite}`PRS2020` who identify TFP for various sectors in South Africa.
+South Africa's productivity has fallen since 2008. In PWT 11.0, TFP fell 1.0% a year over 2008–2019 and real GDP per person engaged grew 0.25% a year, against 2.4% a year over 1994–2008. The Conference Board's Total Economy Database shows the same: TFP growth of −1.0% a year over 2011–2019. Studies trace the fall to the electricity crisis, the logistics state-owned enterprises and weaker state capacity.
+
+The model's long-run growth of labour productivity is $g_y = 1.44\%$ (see the macro chapter), so today's economy sits below that trend. The path of TFP, `Z`, bridges the two. It starts above its long-run value and falls toward it as the shortfall closes. The steady state normalises $Z = 1$, so the long run does not depend on the path. The values come from `ogzaf/productivity.py`.
+
+We do not take the path from a forecaster. The IMF, SARB and National Treasury growth paths assume that the energy and logistics reforms succeed, so they are reform scenarios rather than baselines. The IMF's own record shows the bias: every five-year-ahead forecast of South African growth it made from 2008 to 2020 was above the outturn, leaving aside the Covid years 2020–2021, by 2.1 percentage points a year on average ([WEO historical forecasts](https://www.imf.org/external/pubs/ft/weo/data/weohistorical.xlsx)). The baseline is instead the average, year by year, of two estimates of output per hour:
+
+| | 2026–2030 | 2031–2040 | Long run |
+|---|---|---|---|
+| Our rule | 0.3% | 0.8% | 1.44% |
+| OECD long-term baseline (interpolated, capped at 1.44%) | 0.8% | 1.4% | 1.44% |
+| Baseline (average) | 0.5% | 1.1% | 1.44% |
+
+- **Our rule** starts from South Africa's recent growth: real GDP grew 1.1% a year over 2022–2025. The shortfall then shrinks at the speed found across countries: about 0.3 of a country's gap to the world's growth rate carries into the next decade ([Pritchett and Summers 2014](https://www.nber.org/papers/w20573), Table 1), so the gap shrinks 11% a year and halves in six years.
+- **The OECD long-term baseline** ([Economic Outlook 117, June 2025](https://sdmx.oecd.org/public/rest/data/OECD.ECO.MAD,DSD_EO_LTB@DF_EO_LTB,1.0/ZAF)) has potential output per worker growing 0.7% a year in 2025–2030 and 1.9% in 2030–2040, rising to 2.2% later. Its later rates rest on catching up with richer economies, which we do not assume, so we cap it at our long-run 1.44%.
+
+TFP is then fitted year by year from 2026 to 2050 so that the baseline's output per hour follows the average path; after 2050 the remaining gap keeps shrinking at the rule's speed. In 2025 TFP stands 8.3% above its long-run level. Output per hour grows 0.4% a year in 2026–2028, 1.1% in the 2030s and 1.44% in the long run. Labour input is set by the demographics at today's employment rates by age, which the earnings matrix carries, so GDP grows faster than output per hour while the working-age population grows: 1.6% in 2026 and about 2.1% a year in the 2030s.
+
+In the case of multiple production sectors, we use {cite}`PRS2020` who identify TFP for various sectors in South Africa.

diff --git a/docs/book/content/calibration/earnings.md b/docs/book/content/calibration/earnings.md
@@ -41,6 +41,12 @@ Exogenous life cycle income ability paths $\log(e_{j,s})$ with $S=80$ and $J=7$
 
 {numref}`Figure %s <FigLogAbil>` shows a calibration for $J=7$ deterministic lifetime ability paths $e_{j,s}$ corresponding to labor income percentiles $\boldsymbol{\lambda}=[0.25, 0.25, 0.20, 0.10, 0.10, 0.09, 0.01]$. Because there are few individuals above age 80 in the data, {cite}`DeBackerEtAl:2017` extrapolate these estimates for model ages 80-100 using an arctan function.
 
+## Unemployment
+
+OG-Core has no unemployment: every household works some hours. South Africa's unemployment rate is 32% (60% at ages 15–24; ILO, 2024), so how the model carries it matters. It is already in the earnings matrix. The NTA age profile is labour income per person, the jobless included, and the WID shares count people with no income. So $e_{j,s}$ is expected earnings, with employment rates by age and income group built in, and joblessness is not a choice households make in the model. Scaling $e$ again by employment rates would count unemployment twice. Raising the disutility of work $\chi^n$ instead would treat joblessness as chosen and make labour supply respond to taxes as if it were.
+
+The rates the matrix carries are close to today's. The NTA profile is for 2005, and the share of each age group in work then was close to 2024's: 47% against 44% at ages 25–34, 55% against 57% at 35–44, 51% against 59% at 45–54 and 33% against 39% at 55–64 (ILO, `EMP_DWAP_SEX_AGE_RT`, from the QLFS). The baseline assumes those rates hold. Labour input then grows with the working-age population, and the productivity path in the firms chapter carries the rest of South Africa's weak growth.
+
 ## Footnotes
 
 [^PS_note]: These data are available from the website of Emmanuel Saez: [https://eml.berkeley.edu/~saez/](https://eml.berkeley.edu/~saez/).  We use numbers from Table0, Panel B, "Income excluding realized capital gains."
